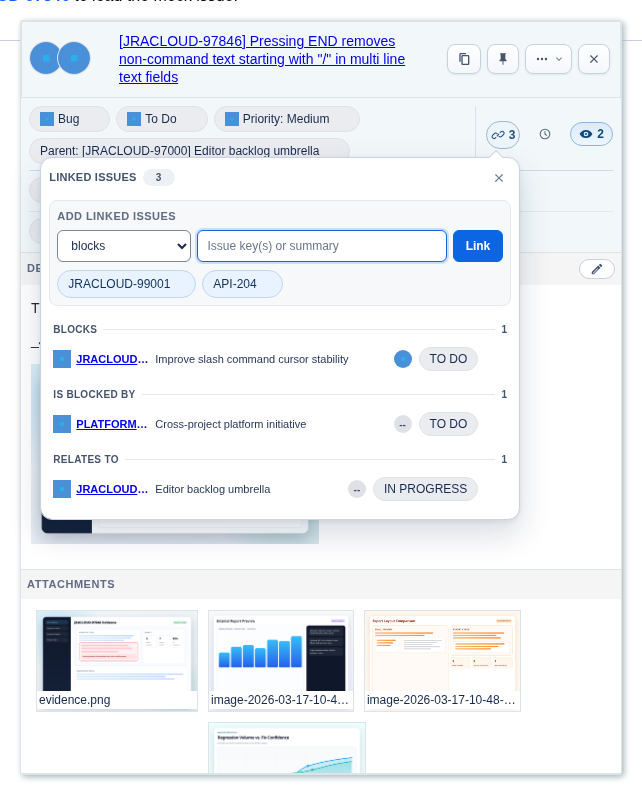
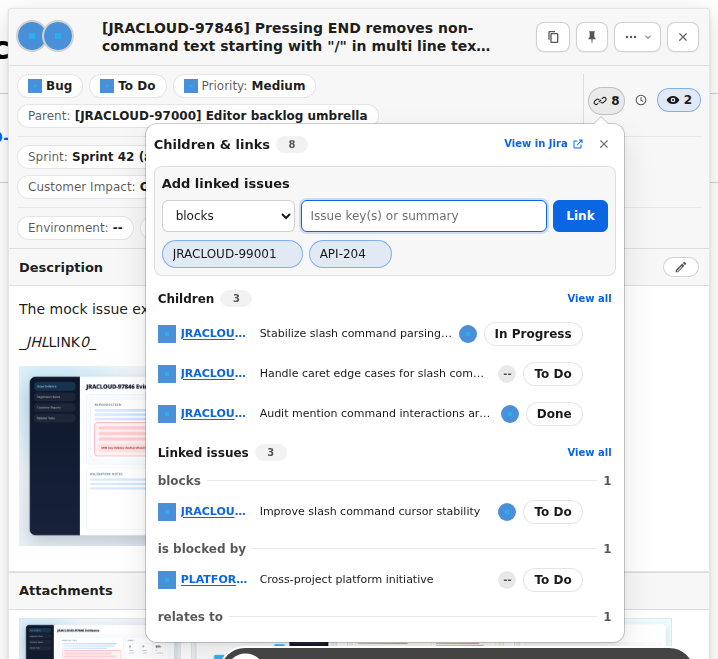
Deploying to gh-pages from @ dgebaei/Jira-QuickView@810a4073c4e71e73cec4c03400041b192ed20b71 🚀

diff --git a/user-guide.html b/user-guide.html
@@ -21,6 +21,13 @@
 <p><a href="https://chromewebstore.google.com/detail/jira-quickview/oddgjhpfjkeckcppcldgjomlnablfkia">Download Extension</a> · <a href="https://dgebaei.github.io/Jira-QuickView/">Extension website</a> · <a href="https://dgebaei.github.io/Jira-QuickView/user-guide.html">User guide</a> · <a href="https://github.com/dgebaei/Jira-QuickView">GitHub repository</a> · <a href="https://github.com/dgebaei/Jira-QuickView/issues">Issue tracker</a></p>
 <p>Jira QuickView lets you work with Jira issues directly from the web pages where issue keys appear. Instead of opening Jira in a separate tab for every notification, pull request, document, or checklist, you can open QuickView from an issue link—or optionally hover a recognized key—to inspect, update, comment on, and triage the issue.</p>
 <p>The screenshots in this guide are examples. Your popup can look different depending on your Jira project, your permissions, your workflow, and the layout you choose in the Options page.</p>
+<h3 id="whats-new-in-292">What's new in 2.9.2</h3>
+<ul>
+<li>The links panel now shows children (sub-tasks and epic children), linked issues, and external links in three sections, and its count includes all three.</li>
+<li>External links, such as test cases or Confluence pages, open in a new tab and can be removed from the panel.</li>
+<li><code>View in Jira</code> in the panel header opens the issue's links in Jira; <code>View all</code> opens the children or linked issues as a Jira search.</li>
+<li>Long issue titles in the popup header stop at two lines.</li>
+</ul>
 <h3 id="fixed-in-291">Fixed in 2.9.1</h3>
 <ul>
 <li>With click activation on, clicking an issue key on a Jira board card, or the key at the top of an issue or of the board's detail panel, opens QuickView. Links Jira uses for its own tabs and actions still work as before.</li>
@@ -90,7 +97,7 @@
       <li>
         <a href="#54-row-1-issue-type-status-priority-linked-issues-history-and-watchers">5.4 Row 1: Issue Type, Status, Priority, Linked Issues, History, and Watchers</a>
         <ul>
-          <li><a href="#541-linked-issues-panel">5.4.1 Linked Issues Panel</a></li>
+          <li><a href="#541-children-and-links-panel">5.4.1 Children and Links Panel</a></li>
           <li><a href="#542-history-panel">5.4.2 History Panel</a></li>
           <li><a href="#543-watchers-panel">5.4.3 Watchers Panel</a></li>
         </ul>
@@ -568,7 +575,7 @@
 <li>Issue Type tells you whether this is a bug, task, story, sub-task, or another Jira type.</li>
 <li>Status tells you the current workflow state.</li>
 <li>Priority tells you the urgency or importance set in Jira.</li>
-<li>Linked Issues shows how many Jira issues are related to the current ticket and opens the relationship panel.</li>
+<li>Linked Issues shows how many children, linked issues, and external links the current ticket has, and opens the Children and Links panel.</li>
 <li>History opens a timeline of issue changes.</li>
 <li>Watchers shows how many people watch the issue and whether you are watching.</li>
 </ul>
@@ -579,17 +586,25 @@
 <li>The Watchers count comes from Jira's watcher data.</li>
 <li>History data loads only when you open the history panel, which keeps the initial popup faster.</li>
 </ul>
-<h4 id="541-linked-issues-panel">5.4.1 Linked Issues Panel</h4>
-<p><img src="screenshots/user-guide/popup-linked-issues.png" alt="Linked issues grouped by relationship" /></p>
-<p>The Linked Issues panel shows Jira issue links without leaving the page. Existing links are grouped by their displayed relationship, such as <code>blocks</code>, <code>is blocked by</code>, or <code>relates to</code>.</p>
-<p>Each linked issue row includes:</p>
+<h4 id="541-children-and-links-panel">5.4.1 Children and Links Panel</h4>
+<p><img src="screenshots/user-guide/popup-linked-issues.png" alt="Children and linked issues in the links panel" /></p>
+<p>The Children and Links panel shows everything attached to the issue without leaving the page, in three sections:</p>
+<ul>
+<li><strong>Children</strong>: sub-tasks and other child issues, such as the issues in an epic. Children are shown for reference and cannot be removed here.</li>
+<li><strong>Linked issues</strong>: Jira issue links, grouped by their displayed relationship, such as <code>blocks</code>, <code>is blocked by</code>, or <code>relates to</code>.</li>
+<li><strong>External links</strong>: links to pages outside Jira, such as test cases or Confluence pages, grouped by relationship, such as <code>links to</code> or <code>mentioned in</code>.</li>
+</ul>
+<p>Sections with nothing in them are hidden. <code>View in Jira</code> in the panel header opens the issue's links in Jira, and <code>View all</code> beside Children or Linked issues opens that list as a Jira search.</p>
+<p>Each child and linked issue row includes:</p>
 <ul>
 <li>Issue type and key</li>
 <li>Summary</li>
 <li>Current status</li>
 <li>Assignee avatar, with the full assignee name on hover</li>
-<li>A remove action that appears on hover and asks for confirmation before deleting the link</li>
+<li>For linked issues, a remove action that appears on hover and asks for confirmation before deleting the link</li>
 </ul>
+<p>Each external link row shows the link title, which opens the page in a new tab, and the site or application it points to. External links can be removed the same way as linked issues.</p>
+<p><img src="screenshots/user-guide/popup-linked-issues-external.png" alt="External links in the links panel" /></p>
 <p>To add linked issues:</p>
 <ol type="1">
 <li>Choose the relationship from the dropdown.</li>
@@ -601,6 +616,7 @@
 <p>Business logic and limitations:</p>
 <ul>
 <li>Jira controls which relationship types are available and whether you can create or delete links.</li>
+<li>The panel adds issue links only. Create sub-tasks and external links in Jira.</li>
 <li>A multi-link request may partially succeed. Successful links are refreshed immediately, while failed keys stay selected with an inline error so you can retry.</li>
 <li>Exact Jira keys can be entered directly. Autocomplete depends on Jira's issue-picker or search APIs.</li>
 <li>Opening Linked Issues closes History or Watchers if either panel is open.</li>

diff --git a/index.html b/index.html
@@ -26,13 +26,20 @@
 <ul>
 <li>Action Jira email notifications directly from Gmail, Outlook, and other enabled inbox-style pages</li>
 <li>Rich popup for issue metadata, linked Jira issues, description, attachments, comments, and linked pull requests</li>
-<li>Linked-issue management grouped by relationship, with key/summary search, multi-key entry, status and assignee context, and confirmed removal</li>
+<li>Children, linked issues, and external links in one panel, with key/summary search, multi-key entry, status and assignee context, and confirmed removal</li>
 <li>PR visibility inside the card, including title, author, branch, and status</li>
 <li>Inline editing for supported Jira fields and supported custom field types</li>
 <li>Configurable layout with Jira custom fields placed directly into the popup rows</li>
 <li>Comment drafting with mentions and support for comment reactions</li>
 <li>Jira-backed quick actions and workflow transitions</li>
 <li>Copy rich issue links beside Jira references in Jira and on allowed pages</li>
+</ul>
+<h2 id="whats-new-in-292">What's new in 2.9.2</h2>
+<ul>
+<li>The links panel shows children (sub-tasks and epic children), linked issues, and external links in three sections; the count on the link button includes all three</li>
+<li>External links, such as test cases or Confluence pages, open in a new tab and can be removed from the panel</li>
+<li><code>View in Jira</code> in the panel header, and <code>View all</code> searches for children and linked issues</li>
+<li>Long issue titles in the popup header stop at two lines</li>
 </ul>
 <h2 id="fixed-in-291">Fixed in 2.9.1</h2>
 <ul>
@@ -89,13 +96,13 @@
 <table>
 <thead>
 <tr class="header">
-<th>Linked issue management</th>
+<th>Children and links</th>
 <th>Multi-key linking</th>
 </tr>
 </thead>
 <tbody>
 <tr class="odd">
-<td><img src="screenshots/user-guide/popup-linked-issues.png" alt="Linked issues grouped by relationship" /></td>
+<td><img src="screenshots/user-guide/popup-linked-issues.png" alt="Children and linked issues in the links panel" /></td>
 <td><img src="screenshots/user-guide/popup-linked-issues-multi-select.png" alt="Direct multi-key linked issue entry" /></td>
 </tr>
 </tbody>
